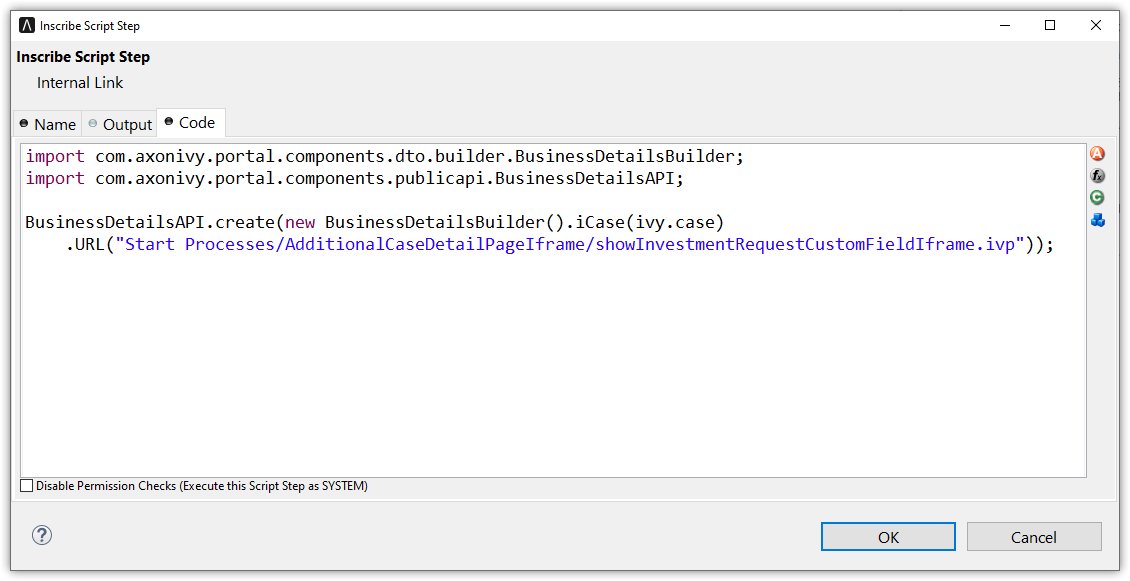
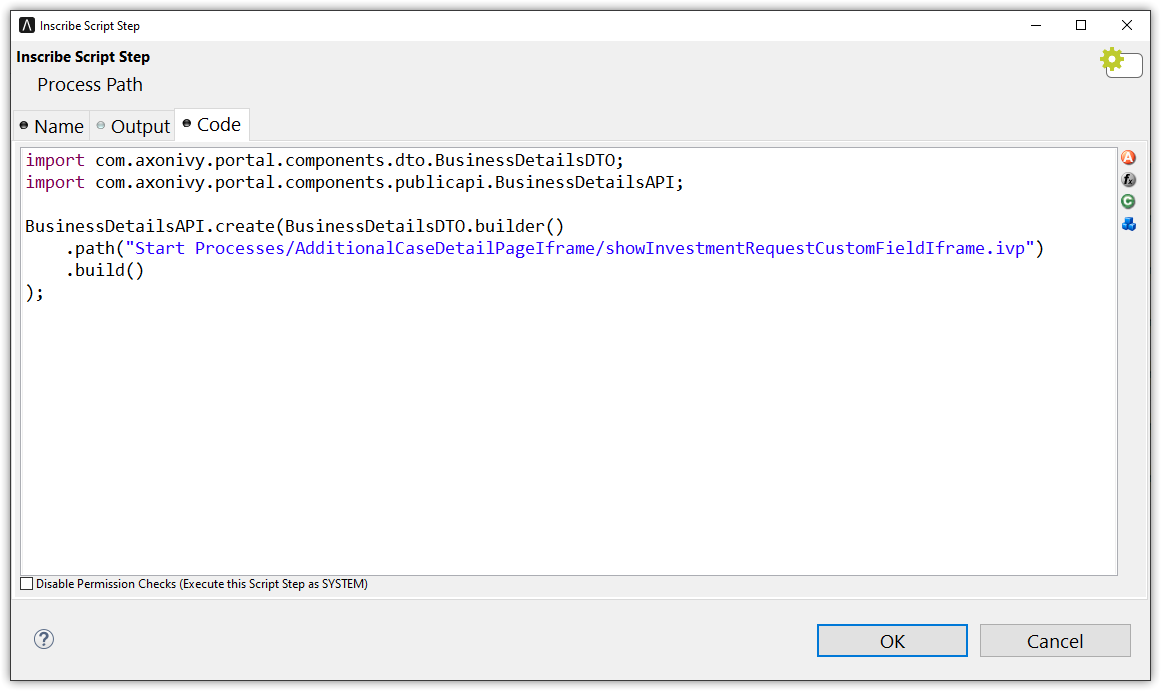
IVYPORTAL-15004 - Update doc

diff --git a/Documentation/portal-guide/source/portal-developer-guide/customization/additional-case-details-page.rst b/Documentation/portal-guide/source/portal-developer-guide/customization/additional-case-details-page.rst
@@ -11,11 +11,11 @@ Introduction
 The Additional Case detail page shows all custom fields of a case. It is opened
 by clicking on ``Show business details`` in Case detail.
 
-You can customize this page for each case by providing a relative URL to case.
+You can modify this page for each case by providing a relative URL to case.
 
 .. _customization-additionalcasedetailspage.customization:
 
-Customization
+How to
 -------------
 
 #. Create a new Additional Case details UI and a start process that will display
@@ -23,29 +23,24 @@ Customization
 
    |customization-additional-case-details-page|
 
-#. When creating a task, store the URL of the start process in the custom ``TEXT`` field 
-   ``businessDetails``  of the associated case. There are 2 ways to set an URL:
 
+#. Store path of start process just created above when creating a task. There are 2 ways to perform this:
+   
+   * Use the ``SetAdditonalCaseDetailPage.p.json`` callable process, and pass the friendly URL of this process as a parameter.
 
-   .. admonition:: Use subprocess SetAdditonalCaseDetailPage.p.json in portal-components
+      |set-additonal-case-detail-page-callable-process|
 
-         Use the ``SetAdditonalCaseDetailPage.p.json`` callable process, and input the friendly URL of this process as a parameter.
-         
-         |set-additonal-case-detail-page-callable-process|
+   * Use public API ``ch.ivy.addon.portalkit.publicapi.BusinessDetailsAPI.create(BusinessDetailsDTO)``. See the Public API for more detail.
 
+      |customize-case-detail-with-public-api|
 
-   .. admonition:: Use public api
+      .. tip:: 
+         Public API also supports external links in case the business detail site is outside of Axon Ivy.    
+         You can replace the path value with any URL then Portal will take care of the rest. Eg: ``.path("https://google.com")``
 
-         Create Case Detail by using API ``ch.ivy.addon.portalkit.publicapi.BusinessDetailsAPI.create(BusinessDetailsBuilder)``
-            
-            - To build an external URL
-               ``BusinessDetailsBuilder().iCase(ICase).URL(external_url).isFullPath(true)``
-            - To build an internal process URL
-               ``BusinessDetailsBuilder().iCase(ICase).URL(process_path)``
-         For more detail, please refer to javadoc Public API
-         |customize-case-detail-with-public-api|
-
-#. If your custom Additional Case details page uses an IFrame, you need to set some additional
+Customization
+-------------
+-  If your custom Additional Case details page uses an IFrame, you may want to set some additional
    Window properties on your page: 
 
    - window.isHideCaseInfo = true;
@@ -56,13 +51,19 @@ Customization
 
    |customization-additional-case-details-page-iframe|
 
-   In your custom start process, create a custom string field name for the case named ``embedInFrame``, set value to 
+-  By using Public API, you can control business detail page will start inside IFrame or not, set ``.isEmbedInFrame(Boolean)`` value to 
    
-   	- ``true``: start inside IFrame 
-   	- ``false``: not start inside IFrame 
+   	- ``true``: start inside IFrame (default value)
+   	- ``false``: not start inside IFrame
+
+-  You can also customize ``ICase`` value, by default the API will get ``ICase`` from ``Ivy.wfCase()``. Modify it by ``.iCase(ICase)``
 
    |start-case-details-page-iframe|
 
+-  Behide the scene, the API will set path value for ``String`` custom field ``businessDetails``. So in case for deep customization, follow below step:
+
+   - Use API ``ProcessStartAPI.findRelativeUrlByProcessStartFriendlyRequestPath(String)`` to find process path.
+   - Set process path to custom field in your specific case ``Ivy.wfCase().customFields().stringField("businessDetails").set(your-process-path-url)``
 
 Permission Setting
 -------------
